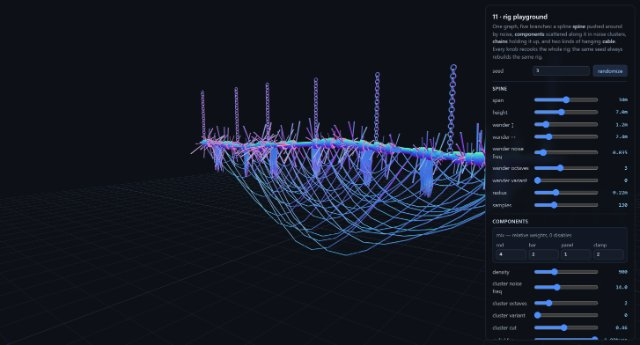
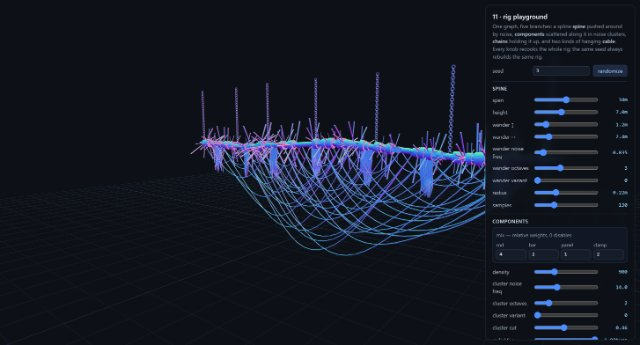
phase(53): more segments in the chains and the cables, on sliders
The subdivision of both cable kinds was hard-coded — 8 segments per
dangler, 10 per drape — which is why the swags read as faceted polylines
and the curl as a bend rather than a curve. Both are now params with the
rest of the playground, and the defaults are raised: 16 per dangler, 22
per drape, and chains from 22 links to 34.

The dangler count is the one that could quietly break. A strand of N
segments walks N + 1 points, and the per-cable group id divides the point
index by that SAME point count — if the two ever disagree the cables
interleave and every path is stitched from pieces of its neighbours. They
are now derived from one number in one place, and the check is that the
cable count holds at exactly 200 across every segment setting from 2 to
64 (and the chords at 58), which it does. A drifting divisor would move
those numbers immediately.

Defaults now cook 5,543 instances in 71 ms: 238 chain links, 3,200
dangler segments, 1,276 drape segments. Measured headroom said this was
free — the scene ran at ~2,000 fps uncapped at settings far heavier.

Also nudged the `detail` capture pose back out of the geometry, which the
denser cables had swallowed.

Claude-Session: https://claude.ai/code/session_01AFCd4d59ZzJpEtmXCT57hH

diff --git a/examples/11-rig-playground/rig.ts b/examples/11-rig-playground/rig.ts
@@ -126,6 +126,8 @@ export interface RigParams {
   /** How many bundles along the curve. */
   danglerBundleFreq: number;
   danglerLength: number;
+  /** Segments down one dangler. More is a smoother curl, more instances. */
+  danglerSegments: number;
   /** How short the shortest dangler is, as a fraction of the longest. */
   dropVariation: number;
   danglerCurl: number;
@@ -145,6 +147,8 @@ export interface RigParams {
    */
   drapeKeep: number;
   drapeSlack: number;
+  /** Segments across one drape. Too few and the sag reads as a tent. */
+  drapeSegments: number;
   /** How much the sag varies from chord to chord. */
   slackJitter: number;
   cableRadius: number;
@@ -173,11 +177,12 @@ export const DEFAULT_PARAMS: RigParams = {
   sizeJitter: 0.45,
   chainCount: 7,
   ceilingHeight: 13,
-  chainLinks: 22,
+  chainLinks: 34,
   danglerCount: 200,
   danglerBundle: 0.8,
   danglerBundleFreq: 7,
   danglerLength: 3.2,
+  danglerSegments: 16,
   dropVariation: 0.45,
   danglerCurl: 0.5,
   curlFreq: 0.5,
@@ -189,6 +194,7 @@ export const DEFAULT_PARAMS: RigParams = {
   drapeMinLength: 4,
   drapeKeep: 0.16,
   drapeSlack: 0.45,
+  drapeSegments: 22,
   slackJitter: 0.8,
   cableRadius: 0.035,
 };
@@ -204,10 +210,6 @@ function noiseSeed(params: RigParams, salt: number, variant: number): number {
 
 /** Corners the wander is built from, before the arc-length evening. */
 const SPINE_CORNERS = 97;
-/** Points down one hanging cable. More = smoother curl, more instances. */
-const DANGLER_POINTS = 9;
-/** Samples across one drape, so its sag reads as a curve and not a tent. */
-const DRAPE_POINTS = 11;
 
 /**
  * The `values` list for the part selector, weighted BY REPETITION —
@@ -490,13 +492,17 @@ function buildChains(graph: Graph, params: RigParams, spine: NodeRef): void {
 
 /** One vertical strand per attachment point, curled toward its free end. */
 function buildDanglers(graph: Graph, params: RigParams, spine: NodeRef): void {
+  // Points, not segments: a strand of N segments walks N + 1 points, and
+  // the group id below divides by the POINT count. The two are derived
+  // from one number here precisely so they cannot drift apart.
+  const points = Math.max(2, Math.round(params.danglerSegments) + 1);
   // One vertical strand per attachment point. copyToPoints is
   // target-major (output index is t * sourceCount + s) and tiles the
   // SOURCE attributes onto every copy, which is what makes both of the
   // tricks below work: cableU rides along from the source, and the
   // per-cable group id falls straight out of the point index.
   const strand = graph.add(pointLine, {
-    count: DANGLER_POINTS,
+    count: points,
     start: [0, 0, 0],
     end: [0, -1, 0],
     includeEnd: true,
@@ -569,7 +575,7 @@ function buildDanglers(graph: Graph, params: RigParams, spine: NodeRef): void {
     domain: "point",
     type: "i32",
     tupleSize: 1,
-    value: floor(div(index(), DANGLER_POINTS)),
+    value: floor(div(index(), points)),
   });
   // The curl grows toward the free end: at the anchor cableU is 0 and
   // the cable is where it was attached, at the tip it is 1 and free.
@@ -651,7 +657,10 @@ function buildDrapes(graph: Graph, params: RigParams, spine: NodeRef): void {
   // pathResample carries the primitive attributes onto every sample and
   // writes curveU, so both halves of the parabola are readable as
   // fields on the points it just made.
-  const drapeEven = graph.add(pathResample, { mode: "count", count: DRAPE_POINTS });
+  const drapeEven = graph.add(pathResample, {
+    mode: "count",
+    count: Math.max(2, Math.round(params.drapeSegments) + 1),
+  });
   const sag = graph.add(transformPoints, {
     translate: (() => {
       const u = attribute("curveU", 1);

diff --git a/examples/11-rig-playground/view.ts b/examples/11-rig-playground/view.ts
@@ -114,6 +114,7 @@ export const SECTIONS: readonly Section[] = [
       { key: "danglerBundle", label: "bundling", min: 0, max: 1, step: 0.02 },
       { key: "danglerBundleFreq", label: "bundle count", min: 1, max: 30, step: 1 },
       { key: "danglerLength", label: "drop", min: 0.2, max: 10, step: 0.1, unit: "m" },
+      { key: "danglerSegments", label: "dangler segments", min: 2, max: 64, step: 1 },
       { key: "dropVariation", label: "drop variation", min: 0, max: 0.95, step: 0.05 },
       { key: "danglerCurl", label: "curl", min: 0, max: 3, step: 0.05, unit: "m" },
       { key: "curlFreq", label: "curl noise freq", min: 0.02, max: 3, step: 0.02 },
@@ -124,6 +125,7 @@ export const SECTIONS: readonly Section[] = [
       { key: "drapeMinLength", label: "drop chords under", min: 0, max: 20, step: 0.25, unit: "m" },
       { key: "drapeKeep", label: "hang fraction", min: 0, max: 1, step: 0.02 },
       { key: "drapeSlack", label: "slack", min: 0, max: 2, step: 0.05 },
+      { key: "drapeSegments", label: "drape segments", min: 2, max: 64, step: 1 },
       { key: "slackJitter", label: "slack variation", min: 0, max: 1, step: 0.05 },
       { key: "cableRadius", label: "cable radius", min: 0.005, max: 0.2, step: 0.005, unit: "m" },
     ],

diff --git a/examples/11-rig-playground/main.ts b/examples/11-rig-playground/main.ts
@@ -320,7 +320,7 @@ window.__rigChrome = (show: boolean) => {
 const VIEWS: Record<string, { eye: [number, number, number]; look: [number, number, number] }> = {
   hero: { eye: [19, 9, 26], look: [0, 5, 0] },
   under: { eye: [2, 1.7, 7], look: [0, 7, -2] },
-  detail: { eye: [-7, 4.5, 7], look: [-10, 6.5, 0] },
+  detail: { eye: [-9, 5.2, 12], look: [-13, 7.2, 2] },
   side: { eye: [0, 7, 34], look: [0, 6, 0] },
 };
 window.__rigView = (name: string) => {
